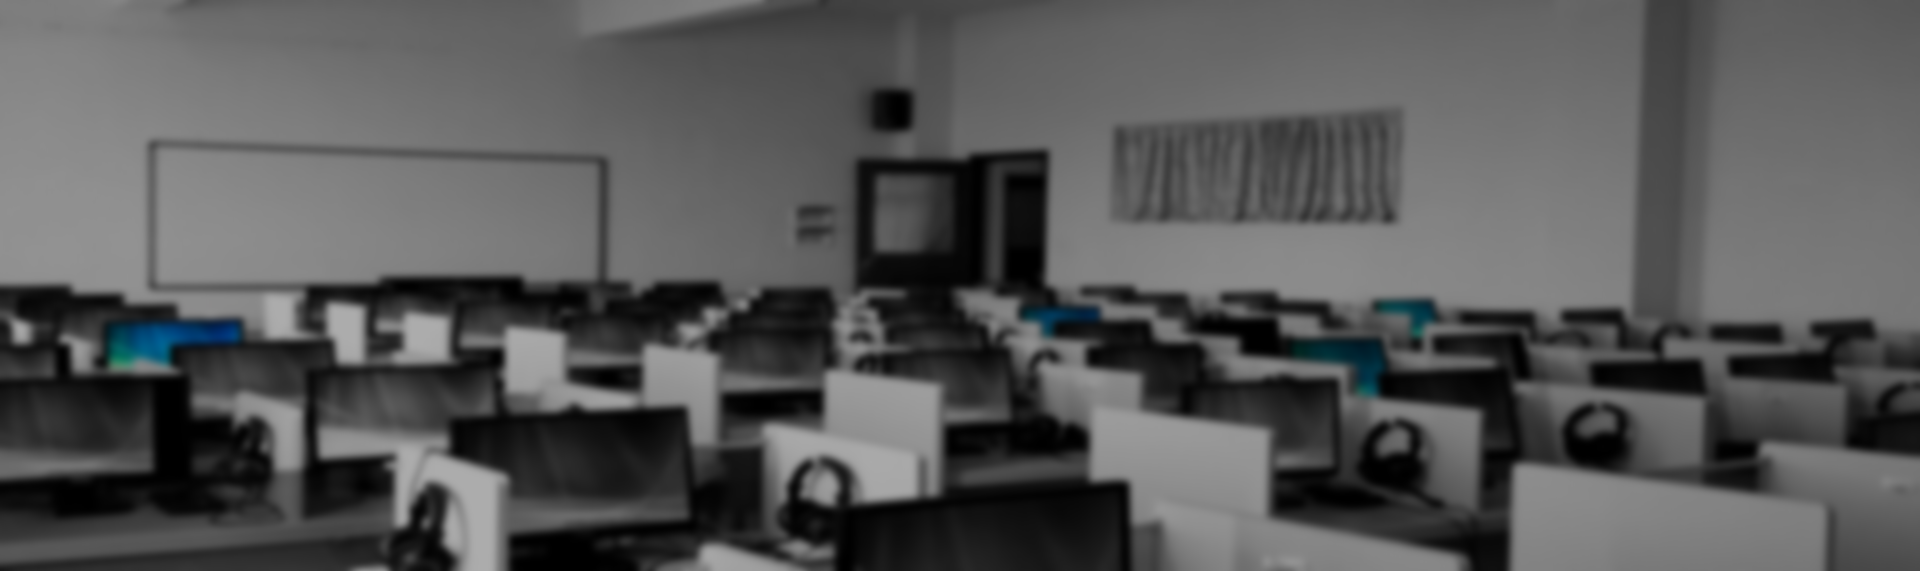
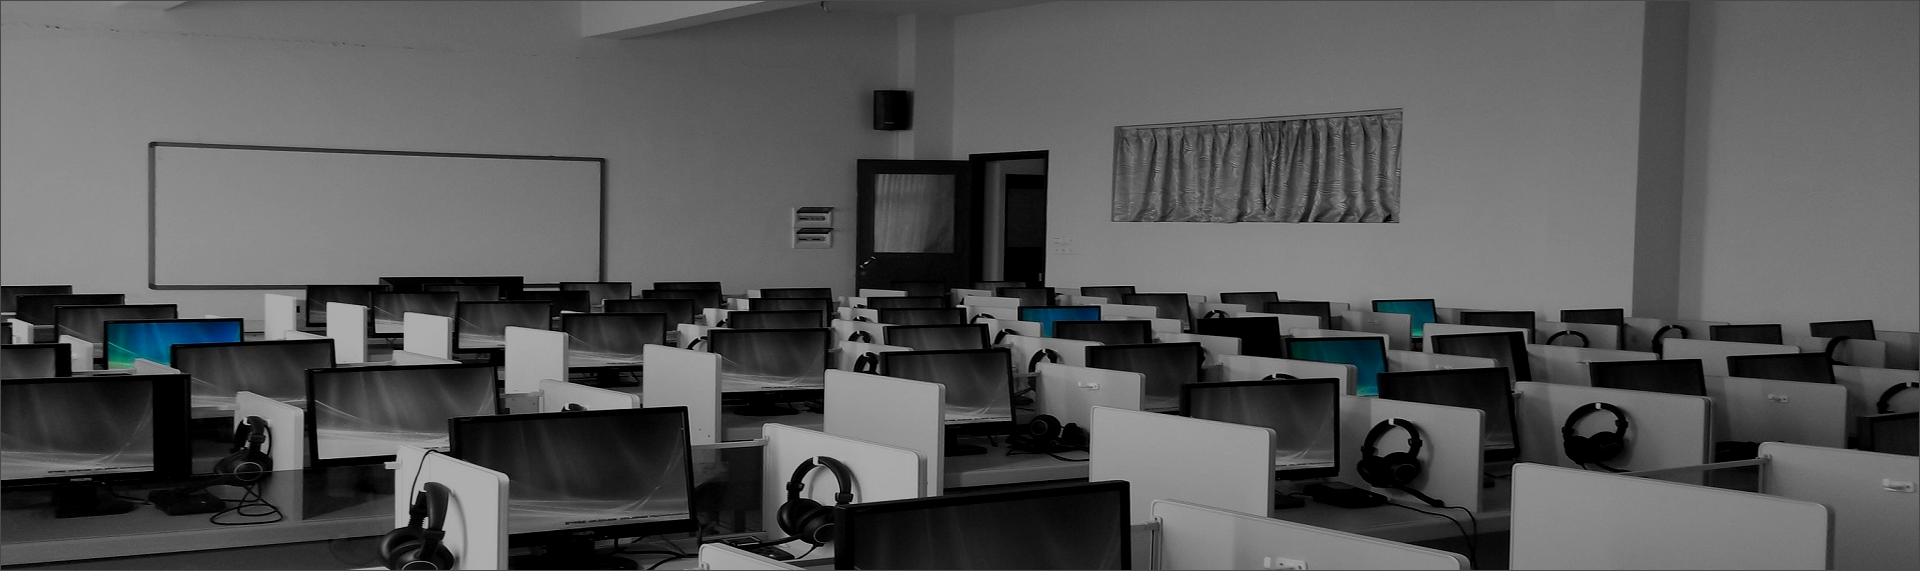
design changes

diff --git a/local/courses/styles.css b/local/courses/styles.css
@@ -129,7 +129,7 @@ body#page-local-courses-courseenrol img#image.content-img {
     color: #000;
     min-height: 215px !important;
     box-shadow: 0px 0px 8px #ddd;
-    padding: 25px 10px;
+   /* padding: 25px 10px;*/
     margin: 15px 0;
 }
 
@@ -860,4 +860,69 @@ body#page-local-courses-courses .quick_actions_list1.options_container:hover{
     position: relative;
     padding: 0.75rem 1.25rem;
     margin-bottom: 1rem;
+}
+
+/*hema   local course view file code*/
+
+#page-local-courses-courses .course_container .coursetype{
+    top: 0px!important;
+    left: 15px;
+}
+#page-local-courses-courses .course_container .coursetype .elearning{
+    padding-left: 0!important;
+}
+#page-local-courses-courses .courseimg_bg{
+    padding: 10px!important;
+}
+#page-local-courses-courses .course_container{
+    padding: 20px 0 20px 8px!important;
+}
+/*progress bar code*/
+#page-local-courses-courses .course_progress_container  .progress_circular {
+    width: 28px;
+    height: 28px;
+    background-color: transparent;
+    background-image: conic-gradient(white 100%, transparent 0%);
+    border-radius: 50%;
+    flex-grow: 0;
+    flex-shrink: 0;
+    border: 1px solid #fff;
+}
+#page-local-courses-courses .course_progress_container{
+    color: #fff;
+    gap: 4px;
+    padding: 3px;
+    border: 2px solid #fff;
+    border-radius: 20px;
+    transition:  width .4s;
+    width: 38px;
+}
+ #page-local-courses-courses .course_container.course_progress_container .progress_percentage{
+    font-weight: bold;
+    margin-left: 5px;
+}
+#page-local-courses-courses .course_container:hover .course_progress_container .progress_percentage{
+  
+    margin-left: 0px;
+}
+#page-local-courses-courses .course_container .course_progress_container .progress_status{
+    display: none;
+}
+#page-local-courses-courses .course_container:hover .course_progress_container{
+    background-color: #2E64BA;
+    padding: 5px;
+    border: 0px solid #fff;
+    width: 100%;
+}
+#page-local-courses-courses  .progress_percentage {
+    margin-left: 6px !important;
+}
+#page-local-courses-courses .course_container:hover .course_progress_container .progress_status{
+    display: flex;
+}
+#page-local-courses-courses .alert-info{
+    border: none!important;
+}
+#page-local-courses-courses #region-main{
+    background-color: transparent;
 }

diff --git a/theme/epsilon/scss/moodle/custom_changes.scss b/theme/epsilon/scss/moodle/custom_changes.scss
@@ -974,7 +974,8 @@ body#page-my-index .openLMStransition.local_users .modal-body .form-group:nth-ch
     margin-left: 20px;
     cursor: default;
     text-decoration: none;
-    min-height: 100%;
+    min-height: 41px;
+    height: 41px;
     display: flex;
 }
 .openLMStransition .form_status .form_status_listitem:first-child .form_status_listitem_link{
@@ -995,7 +996,7 @@ body#page-my-index .openLMStransition.local_users .modal-body .form-group:nth-ch
     border-bottom: 20px solid #ddd;
     position: absolute;
     left: -20px;
-    height: 100%;
+    height: 41px;
     top: 0px;
 }
 .openLMStransition .form_status .form_status_listitem_link:after{
@@ -1010,7 +1011,7 @@ body#page-my-index .openLMStransition.local_users .modal-body .form-group:nth-ch
     border-bottom: 20px solid transparent;
     position: absolute;
     right: -16px;
-    height: 100%;
+    height: 41px;
     top: 0px;
 }
 // .openLMStransition .form_status .form_status_list {
@@ -2713,7 +2714,7 @@ body .que .info>div {
     background-repeat: no-repeat;
 }
 #usernavigation .popover-region[data-region="popover-region-messages"] a .icon::before,
-#usernavigation .popover-region-notifications .icon::before{
+#usernavigation .popover-region-notifications .icon.icon.fa.fa-bell-o::before{
    content: "";
 }
 #usernavigation .popover-region[data-region="popover-region-messages"] a .icon{
@@ -2724,7 +2725,7 @@ body .que .info>div {
     background-size: 100%;
     background-repeat: no-repeat;
 }
-#usernavigation .popover-region-notifications .icon{
+#usernavigation .popover-region-notifications>div .icon.fa.fa-bell-o{
     background-image: url([[pix:theme_epsilon|newicons/notification]]);
     width: 21px;
     height: 21px;

diff --git a/blocks/userdashboard/styles.css b/blocks/userdashboard/styles.css
@@ -271,7 +271,13 @@ body#page-blocks-userdashboard-userdashboard_courses .evalinfo_container p.fdb {
     display: -ms-flexbox;
     display: flex
 }
-
+.block.block_userdashboard .userdashboard_content>div .alert-info{
+   border: none;
+   background-color: #1d212570;
+    color: #fff;
+    align-items: center;
+    justify-content: center;
+}
 #page-blocks-userdashboard-userdashboard_courses .userdashboard_content>div {
     margin: 20px 0
 }
@@ -1798,6 +1804,19 @@ body#page-blocks-userdashboard-userdashboard_courses .tab-pane {
     background-position: center;
     padding-top: 20px;
     padding: 20px 15px;
+    position: relative;
+    z-index: 1;
+}
+.block.block_userdashboard .userdashboardcontent_container::after {
+    content: "";
+    backdrop-filter: blur(4px);
+    background-color: rgba(255,255,255,0);
+    position: absolute;
+    width: 100%;
+    height: 100%;
+    top: 0;
+    left: 0;
+    z-index: -1;
 }
 .block.block_userdashboard .userdashboardcontent_container>div{
     max-width: 1500px;

diff --git a/theme/epsilon/scss/moodle/login.scss b/theme/epsilon/scss/moodle/login.scss
@@ -31,7 +31,6 @@ body#page-login-index #page {
 body#page-login-index .social_icons a.social{
     border-radius: 50%;
     display: inline-block;
-    float: left;
     background-color: #fff;
     -webkit-box-shadow: 0 1px 8px rgba(0,0,0,.3);
     -webkit-box-shadow: 0 1px 8px rgba(0,0,0,.6);
@@ -84,7 +83,7 @@ body#page-login-index .form-control {
     /*width: 250px;*/
     color: #333;
     margin: auto;
-    /*border: 1px solid #f1efef;*/
+    border: 1px solid #c7c7c7;
     /*box-shadow: 0 0 5px rgba(197, 196, 195, 0.68) inset;
     border: 1px solid rgba(197, 196, 195, 0.68) inset;*/
 }

diff --git a/theme/epsilon/layout/columns2.php b/theme/epsilon/layout/columns2.php
@@ -34,7 +34,7 @@ $extraclasses = [];
 $bodyattributes = $OUTPUT->body_attributes($extraclasses);
 $blockshtml = $OUTPUT->blocks('side-pre');
 $hasblocks = (strpos($blockshtml, 'data-block=') !== false || !empty($addblockbutton));
-
+$PAGE->set_secondary_navigation(false);
 $secondarynavigation = false;
 $overflow = '';
 if ($PAGE->has_secondary_navigation()) {

diff --git a/theme/epsilon/config.php b/theme/epsilon/config.php
@@ -81,7 +81,7 @@ $THEME->layouts = [
     ),
     // Server administration scripts.
     'admin' => array(
-        'file' => 'columns2.php',
+        'file' => 'drawers.php',
         'regions' => array('side-pre'),
         'defaultregion' => 'side-pre',
     ),
